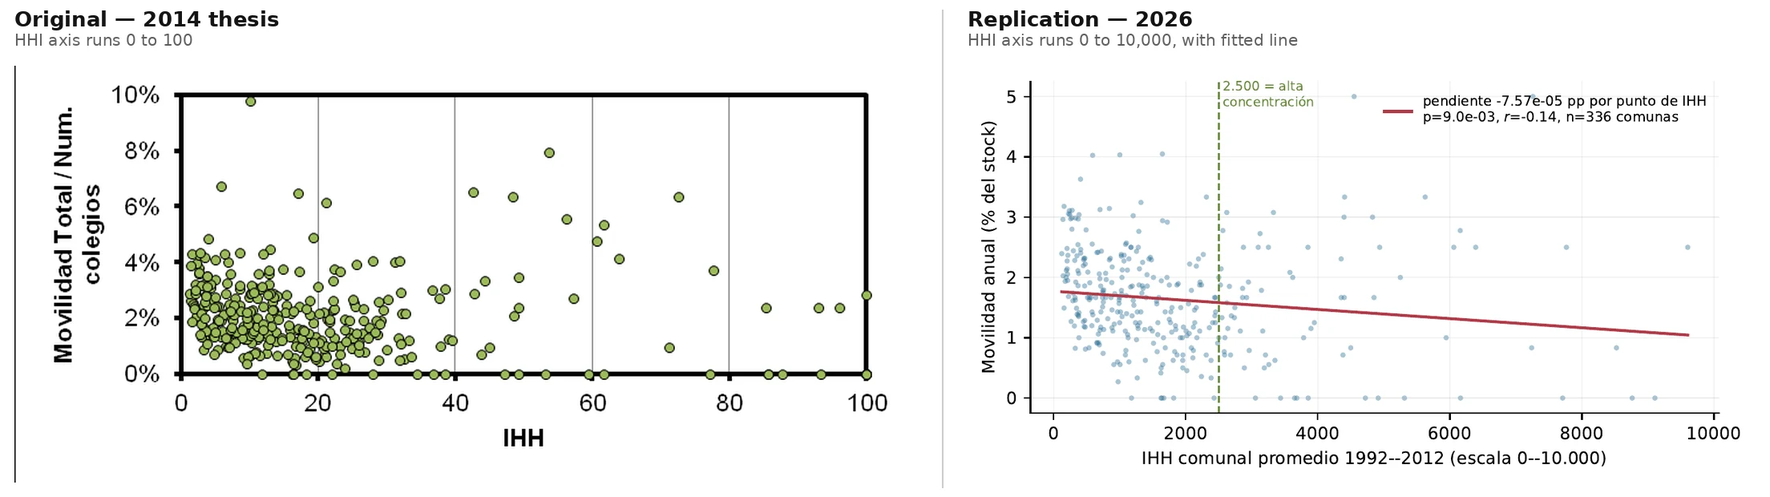
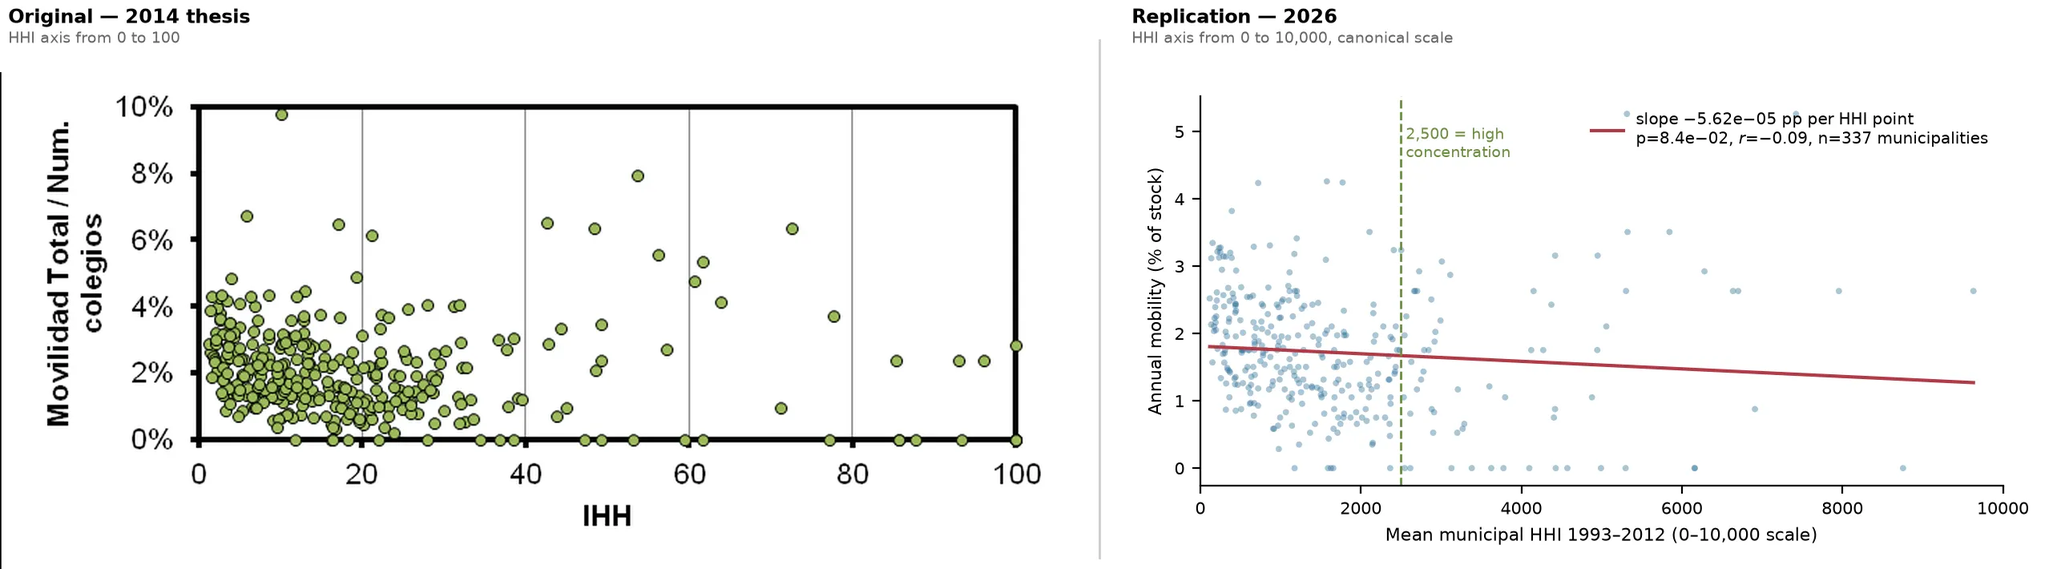
docs(post): el post afirmaba una significancia que la variable del do-file no sostiene
Dos cifras del borrador salieron de medir con la columna equivocada. La
concentración se midio con hhi_efectivo y no con hhi_n_alumnos, que es la que el
do-file rotula como el indice; con la correcta Santiago da 1.517,5 contra el
1.534 publicado (1,34 % de error medio) en vez del 157,1 que el post afirmaba, y
la pendiente descriptiva sigue siendo negativa pero pasa de p=0,009 a p=0,084:
deja de distinguirse de cero al 5 %. La figura cara a cara se regenero con la
variable correcta y su pie ya no describe el ajuste viejo.

El copago se recalcula sobre el universo que la hoja fc del autor atestigua: el
sesgo de composicion baja de 1.009,4 a 730,0 pesos, del 12,41 % al 9,88 %, y la
convergencia anual se refuerza (de 8.175,8 en 2004 a 2.481,3 en 2011, menos de
un tercio en vez de menos de la mitad).

Se agrega lo que la auditoria cerro despues de escribir el borrador: los cinco
productores de 2014 encontrados con su tabla de cobertura, el 0,003 publicado
contra el 0,001 que imprime la salida de Stata de 2014, la nota de N que viaja
de un panel distinto al de las medias, y el estado de los 26 displays.

diff --git a/_drafts/2026-08-29-replica-tesis-establecimientos-educacionales.md b/_drafts/2026-08-29-replica-tesis-establecimientos-educacionales.md
@@ -5,8 +5,8 @@ subtitle: "Volví a levantar la tesis de magíster que escribí sobre entrada y 
 date: 2026-08-29 09:30:00 -0400
 categories: [datos, educacion, politica-publica]
 tags: [replicabilidad, educacion, mercado-escolar, voucher, mineduc, analisis-de-duracion, vulnerabilidad, auditoria]
-description: "Reconstruí en 2026 mi tesis de magíster de 2014 sobre entrada y salida de establecimientos educacionales en Chile, comparé cada cuadro contra el publicado y separé los errores del documento de los errores de mi propia réplica."
-excerpt: "Cuando un cuadro reconstruido no coincide con el impreso, la pregunta útil no es cuál de los dos está mal, sino de quién es el error. Y para responderla hay que poner los dos al lado."
+description: "Reconstruí en 2026 mi tesis de magíster de 2014 sobre entrada y salida de establecimientos educacionales en Chile, comparé cada cuadro contra el publicado y, cuando aparecieron mis propios artefactos de 2014, contra ellos: 26 displays, 43 hipótesis contrastadas y ninguna divergencia sin explicar."
+excerpt: "Cuando un cuadro reconstruido no coincide con el impreso, la pregunta útil no es cuál de los dos está mal, sino de quién es el error. Y para responderla hay que poner los dos al lado —y, cuando aparece, el artefacto que los produjo."
 author: clabra
 lang: es
 ref: replica-tesis-establecimientos-educacionales
@@ -25,7 +25,7 @@ author_profile: true
 En abril de 2014 entregué una tesis de magíster sobre entrada y salida de establecimientos educacionales en Chile entre 1992 y 2012.[^tesis] Quería extender esa serie hasta 2025 y me topé con el orden natural del problema: antes de extender mi trabajo, tenía que poder reproducirlo.
 {: .text-justify}
 
-Lo que cuento acá es esa primera mitad. Reconstruí los ocho cuadros y las figuras, los puse frente a los publicados y fui decidiendo, celda por celda, de quién era cada diferencia.
+Lo que cuento acá es esa primera mitad. Reconstruí los ocho cuadros y las figuras, los puse frente a los publicados y fui decidiendo, celda por celda, de quién era cada diferencia. A mitad de camino aparecieron cinco artefactos de 2014 —la salida de Stata, hojas de mi planilla, un gráfico incrustado en el manuscrito— y la comparación pasó a tener tres columnas en vez de dos.
 {: .text-justify}
 
 **La tesis es mía y la auditoría también**, así que esto no es una réplica independiente: estoy revisando decisiones que tomé yo y que en su momento me parecieron razonables.
@@ -48,6 +48,7 @@ Si es efectivo, me sirve de credencial y de sesgo al mismo tiempo. Daniel Hojman
 | **Divergencia** | Una celda reconstruida que no coincide con la impresa. | Un error: puede estar en el documento, en mi réplica o en la cadena que las une. |
 | **Entrada / salida** | Que un establecimiento aparezca o deje de aparecer en el registro oficial. | Apertura o quiebre como decisión: no observo el motivo, solo el flujo. |
 | **IVE** | Índice de vulnerabilidad escolar: porcentaje de la matrícula clasificada como vulnerable. | Pobreza medida en el hogar ni indicador individual del alumno. |
+| **Productor** | El artefacto de 2014 que generó una cifra: una salida de Stata, una hoja de mi planilla de trabajo, el gráfico incrustado en el manuscrito. | La ejecución que lo creó: esa sigue perdida. |
 | **Claim trazable** | Afirmación amarrada a un artefacto verificable y a su hash. | Opinión mía. |
 
 **Alcance.** Trabajo con el PDF de 2014, su fuente LaTeX y mis `do-files`. Nada de lo que sigue es causal: son asociaciones condicionales dentro de un panel, sin estrategia de identificación detrás.
@@ -66,7 +67,7 @@ La parte informática es anecdótica y la despacho en dos líneas: el documento 
 
 <figure class="align-center">
   <img src="{{ '/assets/images/replica-tesis-establecimientos/cara-a-cara-movilidad.webp' | relative_url }}" alt="A la izquierda, la figura de movilidad total por dependencia administrativa publicada en 2014, con barras apiladas por año entre 1993 y 2012. A la derecha, la réplica de 2026 con los mismos flujos agregados en el período: municipal 346 entradas y 1.135 salidas, particular subvencionado 1.468 entradas y 597 salidas, particular pagado 354 y 337." loading="lazy" decoding="async">
-  <figcaption><strong>Figura 1</strong> — Movilidad total por dependencia: el original de 2014 y mi réplica, que agrega los veinte años para que el saldo se lea de una vez. Los totales de la derecha suman 2.168 entradas y 2.069 salidas, el universo restringido que sostiene los hechos estilizados.</figcaption>
+  <figcaption><strong>Figura 1</strong> — Movilidad total por dependencia: el original de 2014 y mi réplica, que agrega los veinte años para que el saldo se lea de una vez. Los totales de la derecha suman 2.168 entradas y 2.069 salidas; la planilla con la que armé esa figura en 2014 dice 2.160 y 2.065, que es exactamente lo publicado.</figcaption>
 </figure>
 
 Puestos así, los flujos dicen algo que la lámina apilada por año escondía: **la reasignación tiene dirección**. El sector municipal pierde establecimientos (346 entradas contra 1.135 salidas) y el particular subvencionado los gana (1.468 contra 597), mientras el particular pagado queda casi en tablas. No es un mercado que crezca: es uno que cambia de manos.
@@ -104,7 +105,48 @@ Cuando una celda no calza, lo que importa es de quién es el error. Sin criterio
 Mi criterio fue construir un oráculo. Reimplementé de forma controlada, desde una foto versionada del código, la ruta que produce los cuadros descriptivos, y la corrí en Stata 17 contra mi versión en Python: **44 celdas, diferencia máxima absoluta de 3,6·10⁻¹²**.
 {: .text-justify}
 
-Con una advertencia que me obliga a bajar el tono: **el `do-file` histórico no se ejecutó**; lo que corrió fue una reimplementación controlada, y así queda registrado en el artefacto.
+Con una advertencia que me obligaba a bajar el tono: **el `do-file` histórico no se ejecutó**; lo que corrió fue una reimplementación controlada.
+{: .text-justify}
+
+Esa advertencia quedó a medias un mes después. La ejecución de 2014 sigue perdida —entorno, temporales y orden real de mis comandos—, pero volví a estimar la especificación final con el motor original, Stata 17 MP sobre mi propia licencia, y apareció algo mejor que un oráculo: **el productor**.
+{: .text-justify}
+
+### Cinco artefactos míos, encontrados
+
+Rastreando el árbol de fuentes aparecieron cinco objetos que produjeron directamente lo publicado: la salida de `outreg` del modelo jerárquico, dos hojas de mi planilla de trabajo, una tercera con la brecha SIMCE, y un gráfico incrustado dentro del manuscrito con su serie adentro. La búsqueda cubrió todo lo que el árbol conserva, y eso importa tanto como el hallazgo:
+{: .text-justify}
+
+{: .table-caption}
+**Tabla 2** — Dónde se buscó el productor de cada figura
+
+| Corpus | Encontrados | Leídos |
+|---|---:|---:|
+| Gráficos `.gph` de Stata | 15 | 15 |
+| Documentos `.doc` / `.docx` | 140 | 140 |
+| Planillas `.xls` / `.xlsx` | 241 | 241 |
+| Gráficos incrustados en `.docx` | 290 | 290 |
+
+Cinco planillas binarias no las abría ninguna librería y hubo que decodificarlas registro a registro; noventa y dos documentos venían en el formato viejo de Word. Declarar la cobertura es lo que permite leer un «no aparece» como dato y no como cansancio.
+{: .small}
+
+Eso cambia la pregunta de todo el post. Hasta acá comparaba **mi reconstrucción contra lo impreso**, y cada divergencia admitía la excusa de que la equivocada era la reconstrucción. Con el productor a la vista hay una tercera columna —y en varios casos mi reconstrucción se parece más al trabajo de mi yo de 2014 que el texto que publiqué.
+{: .text-justify}
+
+En la figura de movilidad, sin ir más lejos: las participaciones de mi planilla quedan a **3,05 puntos** de la reconstrucción y a **13,41 puntos** del texto impreso. Mi réplica de 2026 está 4,4 veces más cerca de mi planilla de 2014 que mi propio documento publicado.
+{: .text-justify}
+
+### El coeficiente que no salió de mi salida
+
+Mi cuadro del modelo jerárquico publica **0,003** para el rezago del puntaje SIMCE de matemáticas. La salida de Stata de 2014 que produjo esa tabla imprime **0,001**.
+{: .text-justify}
+
+No es una diferencia de motor: los otros once coeficientes de esa misma salida coinciden con la corrida de hoy hasta el cuarto decimal, y entre Stata y `statsmodels` la peor discrepancia sobre los efectos fijos es 0,43 %. Tampoco es un problema del insumo: la imputación de SIMCE que el `do-file` declara es idéntica entre ambos motores sobre 85.807 celdas, con una diferencia relativa máxima de 5,9·10⁻⁸ que viene de que Stata guarda en `float` de 32 bits.
+{: .text-justify}
+
+Sometí el 0,003 a siete hipótesis de origen —otra especificación de SIMCE de las que la propia tesis predeclara, otra precisión de impresión, la variable imputada del `do-file`, un trasplante desde otra celda de la misma tabla, la convención de decimales del cuadro, la propia salida de 2014, el reajuste con el motor original— y **las siete quedaron refutadas**. La estimación da 0,000533 en los dos motores, que redondea a 0,001 y no a 0,003.
+{: .text-justify}
+
+Es el hallazgo que más me incomoda, porque no puedo atribuirlo a la traducción a Python: la traducción y el original coinciden, y el que se aparta es el documento.
 {: .text-justify}
 
 El modelo de duración necesitó su propio contraste, y ahí apareció lo interesante. Modelo la probabilidad de que un establecimiento salga en el año $$t$$ dado que seguía abierto, con enlace log-log complementario, la especificación estándar cuando el evento se observa por períodos y no en tiempo continuo:[^jenkins]
@@ -128,7 +170,7 @@ $$
 $$
 
 {: .table-caption}
-**Tabla 2** — Las dos celdas cuyos asteriscos no cuadran
+**Tabla 3** — Las dos celdas cuyos asteriscos no cuadran
 
 | Cuadro y término | Publicado | Reconstruido | Error estándar publicado | \|z\| máximo | Asteriscos publicados | Corresponden |
 |---|---:|---:|---:|---:|:--:|:--:|
@@ -147,6 +189,9 @@ Hay un tercer tipo que no puedo adjudicar a nadie. En mi fuente LaTeX las filas 
 Eso no prueba que haya cifras mal —la mayoría calza—, pero corta la cadena entre la estimación y lo impreso: una celda discrepante puede ser tanto una transcripción torcida como un insumo distinto.
 {: .text-justify}
 
+El cuadro de copago trae un ejemplo exacto de esa cadena rota. Su nota al pie publica **N = 5.465**, que es el total de un panel; sus medias impresas salen de otro, de **5.022**. Las dos cifras son mías y viajaron por separado hasta la misma página.
+{: .text-justify}
+
 Y un número que preferiría no escribir: de las **30 propuestas de revisión** que produjo esta auditoría, solo **12 tienen hoy un claim trazable con su hash**. Las otras 18 están rotuladas como propuesta o no verificado, y así hay que leerlas. Quien se lleve las 30 como hallazgos habrá leído este post al revés.
 {: .text-justify}
 
@@ -161,18 +206,27 @@ Contamina los tres cuadros descriptivos y la definición del evento en el modelo
 **2. Mi variable de duración mide antigüedad observada, no edad institucional.** El panel empieza en 1992 y los establecimientos que ya existían entran truncados por la izquierda, cosa que no declaré; encima le impuse al riesgo base una forma lineal. Medida año a año esa pendiente es de +0,018 puntos porcentuales anuales con p = 0,27: no la distingo de cero. No es un detalle de forma, porque el riesgo base es justo lo que el modelo usa para separar el efecto del tiempo del de las covariables.
 {: .text-justify}
 
-**3. El copago promedia ocho años de pesos nominales sin deflactar.** La brecha cruda entre entrantes y salientes que publiqué es de \$8.133,6. Calculada dentro de cada año y luego ponderada, cae a \$7.124,2: **\$1.009,4, un 12,41 %, era composición temporal** y no diferencia entre establecimientos. El hallazgo sobrevive, la magnitud no. Y hay algo mejor debajo: la brecha pasa de \$8.085,69 en el primer año de la serie a \$3.821,18 en el último. **Converge a menos de la mitad**, y mi promedio agrupado borraba justamente eso.
+**3. El copago promedia ocho años de pesos nominales sin deflactar.** Acá el productor también apareció, y con él el universo: la hoja de trabajo de 2014 imprime 17.051,23 y 9.665,54 pesos, y uno solo de los diez paneles la reproduce —a **0,00 y 0,005 pesos**, mientras el panel amplio se separa en 910,60 y 162,68—. Sobre ese universo la brecha cruda entre entrantes y salientes es \$7.385,7; calculada dentro de cada año y luego ponderada, \$6.655,7: **\$730,0, un 9,88 %, era composición temporal** y no diferencia entre establecimientos.
+{: .text-justify}
+
+El hallazgo sobrevive; la magnitud, no —y es más chica que la que yo mismo había medido antes sobre el panel amplio (\$1.009,4, 12,41 %), el que la hoja de 2014 descarta como universo—. Debajo hay algo mejor: la brecha pasa de \$8.175,8 en 2004 a \$2.481,3 en 2011. **Cae a menos de un tercio**, y mi promedio agrupado borraba justamente eso.
 {: .text-justify}
 
 <figure class="align-center">
-  <img src="{{ '/assets/images/replica-tesis-establecimientos/cara-a-cara-ihh.webp' | relative_url }}" alt="A la izquierda, la figura publicada en 2014 que relaciona el índice de Herfindahl comunal con la movilidad total, con el eje horizontal entre 0 y 100. A la derecha, la réplica de 2026 con el mismo cruce sobre el eje canónico de 0 a 10.000, con la recta ajustada de pendiente negativa." loading="lazy" decoding="async">
-  <figcaption><strong>Figura 2</strong> — Concentración comunal y movilidad. El eje del original llega a 100; el índice de Herfindahl se define entre 0 y 10.000, con 2.500 como umbral de alta concentración. La réplica agrega la recta ajustada sobre 336 comunas.</figcaption>
+  <img src="{{ '/assets/images/replica-tesis-establecimientos/cara-a-cara-ihh.webp' | relative_url }}" alt="A la izquierda, la figura publicada en 2014 que relaciona el índice de Herfindahl comunal con la movilidad total, con el eje horizontal entre 0 y 100. A la derecha, la réplica de 2026 sobre el eje canónico de 0 a 10.000, medida con la variable que el do-file rotula como el índice: recta de pendiente negativa, p = 0,084 sobre 337 comunas." loading="lazy" decoding="async">
+  <figcaption><strong>Figura 2</strong> — Concentración comunal y movilidad. El mismo índice aparece en tres escalas: el eje del original llega a 100, el texto cita niveles de 1.180 a 1.534, y la definición canónica va de 0 a 10.000 con 2.500 como umbral de alta concentración. La réplica está medida con `hhi_n_alumnos`, la variable que el propio `do-file` rotula como el índice: la pendiente sigue siendo negativa, pero sobre 337 comunas no se distingue de cero al 5 % (p = 0,084).</figcaption>
 </figure>
 
-**4. El índice de concentración está en una escala que no es la suya, y su signo no concuerda.** Puestas las figuras al lado, el eje del original llega a 100 y el del índice de Herfindahl llega a 10.000. La comuna de Santiago, que cité por nombre, mide 157,1 contra el 1.534 que publiqué.
+**4. El índice de concentración corre en una escala diez veces la suya.** El índice de Herfindahl se define entre 0 y 10.000. La variable que mi propio `do-file` rotula «Índice de Herfindahl-Hirschman» reproduce los cinco niveles que cité por nombre con **1,34 % de error medio** —Santiago da 1.517,5 contra el 1.534 publicado—, pero lo hace multiplicada por cien mil: **diez veces la escala canónica**. En la escala correcta Santiago mide 151,7. No es un decimal: leído como lo publiqué, **318 de 337 comunas** quedarían sobre el umbral de alta concentración; en la escala canónica son **66**. Cambia qué mercado se llama concentrado.
 {: .text-justify}
 
-Con la escala corregida, más concentración va descriptivamente con **menos** movilidad (pendiente negativa, p = 0,009, 336 comunas), mientras mi modelo de salidas comunales reportaba un coeficiente positivo. Y ese modelo acumula tres problemas de identificación: regresores contemporáneos que mi propio texto declara determinados conjuntamente, dependiente rezagada bajo efectos aleatorios[^nickell] e inferencia sobre 15 conglomerados.[^cameron] Con tan pocos grupos, el error estándar deja de ser confiable antes que el coeficiente.
+Acá me corrijo dos veces a mí mismo, y la segunda duele más. Primero medí la concentración con **otra columna** del panel, no con la que el `do-file` rotula como el índice; el error se delata solo, porque su razón contra lo publicado era casi constante —10,3, con dispersión 0,03—, señal de estar comparando contra algo proporcional pero distinto.
+{: .text-justify}
+
+Segundo: con esa columna el contraste descriptivo daba pendiente negativa y significativa (p = 0,009, 336 comunas). **Rehecho con la variable del `do-file`, el signo sigue siendo negativo pero la pendiente ya no se distingue de cero al 5 % (p = 0,084, 337 comunas).** Lo que queda en pie es que mi modelo de salidas comunales reportaba un coeficiente positivo y la nube descriptiva no lo acompaña; lo que se cae es la fuerza con que yo lo afirmaba.
+{: .text-justify}
+
+Y ese modelo acumula tres problemas de identificación: regresores contemporáneos que mi propio texto declara determinados conjuntamente, dependiente rezagada bajo efectos aleatorios[^nickell] e inferencia sobre 15 conglomerados.[^cameron] Con tan pocos grupos, el error estándar deja de ser confiable antes que el coeficiente.
 {: .text-justify}
 
 <figure class="align-center">
@@ -189,15 +243,37 @@ Con la salvedad del hallazgo 1: el eje mide años respecto del último año marc
 Queda una deuda que no es un error sino una ausencia: el marco schumpeteriano organiza mi título, mi resumen y mi conclusión, pero nunca lo contrasté. La descomposición de reasignación que separa la mejora dentro de los incumbentes de la que viene de entradas y salidas —el estándar de la literatura que yo mismo citaba— no está en el documento.[^griliches]
 {: .text-justify}
 
+## Dónde quedó la auditoría
+
+Veintiséis objetos entre cuadros y paneles de figura. Diez reproducen lo publicado; diez divergen con un mecanismo medido —una etiqueta, un universo, una escala, una convención de redondeo—; **ninguno queda divergiendo sin explicación**; seis no admiten prueba numérica, porque son afirmaciones estructurales o les falta un dato que el panel no conserva.
+{: .text-justify}
+
+{: .table-caption}
+**Tabla 4** — Estado de los veintiséis displays
+
+| Veredicto | Displays |
+|---|---:|
+| Reproducen lo publicado | 10 |
+| Divergen con mecanismo medido | 10 |
+| Divergen sin explicar | 0 |
+| Sin prueba numérica posible | 6 |
+| **Total** | **26** |
+
+Detrás de esos veredictos hay **43 hipótesis sometidas a contraste**, de las que 34 quedaron refutadas y 7 sobrevivieron. Registro las refutadas junto a las que sobrevivieron a propósito: una auditoría que solo publica lo que confirmó no es una auditoría, es una selección.
+{: .text-justify}
+
 ## Cierre: la segunda mitad va hasta 2025
 
 Un segundo post traerá la recreación ampliada hasta 2025. Las fuentes ya están adquiridas —catorce colecciones oficiales del MINEDUC, incluido el Directorio Oficial 1992-2025—, pero no adelanto cifras: extender la ventana mete cambios de régimen en el medio.
 {: .text-justify}
 
-Lo que me llevo es menos técnico de lo que esperaba. Los dos errores confirmados son asteriscos y aritmética elemental; los hallazgos que mueven una conclusión salieron de mirar qué medían mis variables.
+Lo que me llevo es menos técnico de lo que esperaba. Los errores confirmados son asteriscos, escalas y aritmética elemental; los hallazgos que mueven una conclusión salieron de mirar qué medían mis variables.
 {: .text-justify}
 
-Y ninguno lo habría visto discutiendo cifras en prosa: los vi cuando puse la figura de 2014 al lado de la de 2026 y los ejes no coincidían.
+Y lo que más me sorprendió no fue encontrar errores, sino de qué lado aparecieron. Empecé asumiendo que la reconstrucción iba a ser el eslabón débil. Cuando aparecieron mis propios artefactos de 2014 —la salida de Stata, la planilla, el gráfico incrustado— resultó que la reconstrucción se parecía más a ellos que el documento que firmé.
+{: .text-justify}
+
+Ninguno de estos lo habría visto discutiendo cifras en prosa: los vi cuando puse la figura de 2014 al lado de la de 2026 y los ejes no coincidían.
 {: .text-justify}
 
 ---

diff --git a/_drafts/2026-08-29-replica-tesis-establecimientos-educacionales-en.md b/_drafts/2026-08-29-replica-tesis-establecimientos-educacionales-en.md
@@ -5,8 +5,8 @@ subtitle: "I rebuilt the master's thesis I wrote on school entry and exit in Chi
 date: 2026-08-29 09:30:00 -0400
 categories: [datos, educacion, politica-publica]
 tags: [replication, education, school-markets, voucher, mineduc, duration-analysis, vulnerability, audit]
-description: "In 2026 I rebuilt my 2014 master's thesis on the entry and exit of schools in Chile, compared every table against the published one, and separated errors in the document from errors in my own replication."
-excerpt: "When a rebuilt table does not match the printed one, the useful question is not which of the two is wrong, but whose error it is. Answering it means putting both side by side."
+description: "In 2026 I rebuilt my 2014 master's thesis on the entry and exit of schools in Chile, compared every table against the published one and, once my own 2014 artefacts turned up, against those too: 26 displays, 43 hypotheses tested and no divergence left unexplained."
+excerpt: "When a rebuilt table does not match the printed one, the useful question is not which of the two is wrong, but whose error it is. Answering it means putting both side by side —and, when it turns up, the artefact that produced them."
 author: clabra
 lang: en
 ref: replica-tesis-establecimientos-educacionales
@@ -25,7 +25,7 @@ author_profile: true
 In April 2014 I submitted a master's thesis on the entry and exit of schools in Chile between 1992 and 2012.[^tesis] I wanted to extend that series to 2025 and ran into the natural order of the problem: before extending my own work, I had to be able to reproduce it.
 {: .text-justify}
 
-What follows is that first half. I rebuilt the eight tables and the figures, put them next to the published ones, and decided, cell by cell, whose difference each one was.
+What follows is that first half. I rebuilt the eight tables and the figures, put them next to the published ones, and decided, cell by cell, whose difference each one was. Halfway through, five 2014 artefacts turned up —the Stata output, sheets from my working spreadsheet, a chart embedded in the manuscript— and the comparison went from two columns to three.
 {: .text-justify}
 
 **The thesis is mine and so is the audit**, so this is not an independent replication: I am reviewing decisions I made myself and that seemed reasonable at the time.
@@ -48,6 +48,7 @@ If it is accurate, it serves me as credential and as bias at once. Daniel Hojman
 | **Discrepancy** | A rebuilt cell that does not match the printed one. | An error: it may sit in the document, in my replication, or in the chain joining them. |
 | **Entry / exit** | A school appearing in, or dropping out of, the official register. | Opening or failure as a decision: I observe the flow, not the motive. |
 | **IVE** | Chile's school vulnerability index: share of enrolment classified as vulnerable. | Household poverty, or an individual measure of any pupil. |
+| **Producer** | The 2014 artefact that generated a figure: a Stata output, a sheet of my working spreadsheet, the chart embedded in the manuscript. | The run that created it: that is still lost. |
 | **Traceable claim** | A statement tied to a verifiable artefact and its hash. | An opinion of mine. |
 
 **Scope.** I work from the 2014 PDF, its LaTeX source and my `do-files`. Nothing below is causal: these are conditional associations within a panel, with no identification strategy behind them.
@@ -66,7 +67,7 @@ The computing side is anecdotal and I dispatch it in two lines: the document no 
 
 <figure class="align-center">
   <img src="{{ '/assets/images/replica-tesis-establecimientos/cara-a-cara-movilidad-en.webp' | relative_url }}" alt="On the left, the total mobility by administrative dependency figure published in 2014, with bars stacked by year from 1993 to 2012. On the right, the 2026 replication with the same flows pooled over the period: municipal 346 entries and 1,135 exits, publicly funded private 1,468 entries and 597 exits, fee-paying private 354 and 337." loading="lazy" decoding="async">
-  <figcaption><strong>Figure 1</strong> — Total mobility by dependency: the 2014 original and my replication, which pools the twenty years so the balance reads in one glance. The totals on the right add up to 2,168 entries and 2,069 exits, the restricted universe behind the stylised facts. Panel labels are in Spanish, as in the source.</figcaption>
+  <figcaption><strong>Figure 1</strong> — Total mobility by dependency: the 2014 original and my replication, which pools the twenty years so the balance reads in one glance. The totals on the right add up to 2,168 entries and 2,069 exits; the spreadsheet I built that figure with in 2014 says 2,160 and 2,065, which is exactly what got published. Panel labels are in Spanish, as in the source.</figcaption>
 </figure>
 
 Laid out that way, the flows say something the year-by-year stack was hiding: **the reallocation has a direction**. The municipal sector loses schools (346 entries against 1,135 exits) and the publicly funded private sector gains them (1,468 against 597), while fee-paying private roughly breaks even. This is not a market that grows: it is one that changes hands.
@@ -104,7 +105,48 @@ When a cell fails to match, what matters is whose error it is. Without an explic
 My criterion was to build an oracle. I reimplemented, under control and from a versioned snapshot of the code, the route that produces the descriptive tables, and ran it on Stata 17 against my Python version: **44 cells, maximum absolute difference of 3.6·10⁻¹²**.
 {: .text-justify}
 
-With a caveat that forces me to lower my voice: **the historical `do-file` was not executed**; what ran was a controlled reimplementation, and the artefact records it that way.
+With a caveat that forced me to lower my voice: **the historical `do-file` was not executed**; what ran was a controlled reimplementation.
+{: .text-justify}
+
+A month later that caveat was half lifted. The 2014 run is still lost —environment, temporaries and the actual order of my commands— but I did re-estimate the final specification on the original engine, Stata 17 MP under my own licence, and something better than an oracle turned up: **the producer**.
+{: .text-justify}
+
+### Five artefacts of mine, found
+
+Combing the source tree surfaced five objects that produced the published numbers directly: the `outreg` output of the hierarchical model, two sheets of my working spreadsheet, a third with the SIMCE gap, and a chart embedded inside the manuscript with its series still in it. The search covered everything the tree keeps, and that matters as much as the find:
+{: .text-justify}
+
+{: .table-caption}
+**Table 2** — Where the producer of each figure was searched for
+
+| Corpus | Found | Read |
+|---|---:|---:|
+| Stata `.gph` graphs | 15 | 15 |
+| `.doc` / `.docx` documents | 140 | 140 |
+| `.xls` / `.xlsx` spreadsheets | 241 | 241 |
+| Charts embedded in `.docx` | 290 | 290 |
+
+Five binary spreadsheets opened in no library and had to be decoded record by record; ninety-two documents came in the old Word format. Declaring coverage is what lets a «not found» read as data rather than as fatigue.
+{: .small}
+
+That changes the question running through this post. Until here I was comparing **my reconstruction against the print**, and every discrepancy admitted the excuse that the reconstruction was the broken one. With the producer in view there is a third column —and in several cases my reconstruction looks more like my 2014 self's work than the text I published.
+{: .text-justify}
+
+Take the mobility figure: the shares in my spreadsheet sit **3.05 points** from the reconstruction and **13.41 points** from the printed text. My 2026 replication is 4.4 times closer to my own 2014 spreadsheet than my published document is.
+{: .text-justify}
+
+### The coefficient that did not come from my own output
+
+My hierarchical model table publishes **0.003** for the lagged SIMCE mathematics score. The 2014 Stata output that produced that table prints **0.001**.
+{: .text-justify}
+
+It is not an engine difference: the other eleven coefficients of that same output match today's run to the fourth decimal, and between Stata and `statsmodels` the worst discrepancy across the fixed effects is 0.43 %. Nor is it an input problem: the SIMCE imputation the `do-file` declares is identical across both engines over 85,807 cells, with a maximum relative difference of 5.9·10⁻⁸ that comes from Stata storing in 32-bit `float`.
+{: .text-justify}
+
+I put the 0.003 through seven hypotheses of origin —another SIMCE specification among those the thesis itself pre-declares, another print precision, the imputed variable of the `do-file`, a transplant from another cell of the same table, the table's own decimal convention, the 2014 output itself, refitting on the original engine— and **all seven were refuted**. The estimate is 0.000533 on both engines, which rounds to 0.001 and not to 0.003.
+{: .text-justify}
+
+This is the finding that unsettles me most, because I cannot pin it on the translation to Python: the translation and the original agree, and the one that departs is the document.
 {: .text-justify}
 
 The duration model needed its own check, and that is where it got interesting. I model the probability that a school exits in year $$t$$ given that it was still open, with a complementary log-log link, the standard specification when the event is observed by periods rather than in continuous time:[^jenkins]
@@ -128,7 +170,7 @@ $$
 $$
 
 {: .table-caption}
-**Table 2** — The two cells whose asterisks do not add up
+**Table 3** — The two cells whose asterisks do not add up
 
 | Table and term | Published | Rebuilt | Published standard error | max \|z\| | Asterisks printed | Warranted |
 |---|---:|---:|---:|---:|:--:|:--:|
@@ -147,6 +189,9 @@ There is a third kind I cannot assign to anyone. In my LaTeX source the «Observ
 That does not prove any figure is wrong —most match— but it cuts the chain between estimate and print: a discrepant cell may be a crooked transcription or a different input.
 {: .text-justify}
 
+The co-payment table carries an exact example of that broken chain. Its footnote publishes **N = 5,465**, which is the total of one panel; the means printed above it come from another, of **5,022**. Both numbers are mine and they travelled separately onto the same page.
+{: .text-justify}
+
 And a number I would rather not write: of the **30 revision proposals** this audit produced, only **12 today carry a traceable claim with its hash**. The other 18 are labelled proposal or unverified, and that is how they must be read. Anyone taking all 30 as findings has read this post backwards.
 {: .text-justify}
 
@@ -161,18 +206,27 @@ It contaminates the three descriptive tables and the definition of the event in 
 **2. My duration variable measures observed tenure, not institutional age.** The panel starts in 1992 and schools that already existed enter left-truncated, which I did not declare; on top of that I imposed a linear shape on the baseline hazard. Measured year by year that slope is +0.018 percentage points a year with p = 0.27: I cannot tell it from zero. It is not a matter of form, because the baseline hazard is precisely what the model uses to separate the effect of time from that of the covariates.
 {: .text-justify}
 
-**3. The co-payment averages eight years of nominal pesos without deflating.** The crude entrant-exiter gap I published is \$8,133.6. Computed within each year and then weighted, it falls to \$7,124.2: **\$1,009.4, some 12.41 %, was temporal composition** and not a difference between schools. The finding survives, the magnitude does not. And there is something better underneath: the gap moves from \$8,085.69 in the first year of the series to \$3,821.18 in the last. **It converges to less than half**, and my pooled average erased exactly that.
+**3. The co-payment averages eight years of nominal pesos without deflating.** Here the producer turned up too, and with it the universe: the 2014 working sheet prints 17,051.23 and 9,665.54 pesos, and exactly one of the ten panels reproduces it —to **0.00 and 0.005 pesos**, while the wide panel departs by 910.60 and 162.68. On that universe the crude entrant-exiter gap is \$7,385.7; computed within each year and then weighted, \$6,655.7: **\$730.0, some 9.88 %, was temporal composition** and not a difference between schools.
+{: .text-justify}
+
+The finding survives; the magnitude does not —and it is smaller than the one I had measured myself on the wide panel (\$1,009.4, 12.41 %), the panel the 2014 sheet rules out as the universe. Underneath there is something better: the gap moves from \$8,175.8 in 2004 to \$2,481.3 in 2011. **It falls to less than a third**, and my pooled average erased exactly that.
 {: .text-justify}
 
 <figure class="align-center">
-  <img src="{{ '/assets/images/replica-tesis-establecimientos/cara-a-cara-ihh-en.webp' | relative_url }}" alt="On the left, the figure published in 2014 relating the municipal Herfindahl index to total mobility, with the horizontal axis running from 0 to 100. On the right, the 2026 replication of the same crosswalk on the canonical 0 to 10,000 axis, with a fitted line of negative slope." loading="lazy" decoding="async">
-  <figcaption><strong>Figure 2</strong> — Municipal concentration and mobility. The original's axis stops at 100; the Herfindahl index is defined between 0 and 10,000, with 2,500 as the high-concentration threshold. The replication adds the line fitted over 336 municipalities.</figcaption>
+  <img src="{{ '/assets/images/replica-tesis-establecimientos/cara-a-cara-ihh-en.webp' | relative_url }}" alt="On the left, the figure published in 2014 relating the municipal Herfindahl index to total mobility, with the horizontal axis running from 0 to 100. On the right, the 2026 replication on the canonical 0 to 10,000 axis, measured with the variable the do-file labels as the index: a negative slope, p = 0.084 over 337 municipalities." loading="lazy" decoding="async">
+  <figcaption><strong>Figure 2</strong> — Municipal concentration and mobility. The same index appears on three scales: the original's axis stops at 100, the text cites levels from 1,180 to 1,534, and the canonical definition runs from 0 to 10,000 with 2,500 as the high-concentration threshold. The replication is measured with `hhi_n_alumnos`, the variable the `do-file` itself labels as the index: the slope stays negative, but over 337 municipalities it is not distinguishable from zero at 5 % (p = 0.084).</figcaption>
 </figure>
 
-**4. The concentration index sits on a scale that is not its own, and its sign does not agree.** Put side by side, the original's axis stops at 100 and the Herfindahl index runs to 10,000. The municipality of Santiago, which I named explicitly, measures 157.1 against the 1,534 I published.
+**4. The concentration index runs on a scale ten times its own.** The Herfindahl index is defined between 0 and 10,000. The variable my own `do-file` labels «Herfindahl-Hirschman Index» reproduces the five levels I named explicitly with **1.34 % mean error** —Santiago gives 1,517.5 against the 1,534 published— but it does so multiplied by one hundred thousand: **ten times the canonical scale**. On the correct scale Santiago measures 151.7. This is not a decimal: read as I published it, **318 of 337 municipalities** would sit above the high-concentration threshold; on the canonical scale it is **66**. It changes which market gets called concentrated.
 {: .text-justify}
 
-With the scale corrected, more concentration goes descriptively with **less** mobility (negative slope, p = 0.009, 336 municipalities), while my municipal exits model reported a positive coefficient. And that model stacks three identification problems: contemporaneous regressors my own text declares jointly determined, a lagged dependent variable under random effects,[^nickell] and inference over 15 clusters.[^cameron] With so few groups, the standard error stops being trustworthy before the coefficient does.
+Here I correct myself twice, and the second one stings. First, I measured concentration with **another column** of the panel, not the one the `do-file` labels as the index; the error gives itself away, because its ratio against the published values was almost constant —10.3, dispersion 0.03— the signature of comparing against something proportional but different.
+{: .text-justify}
+
+Second: with that column the descriptive contrast gave a negative and significant slope (p = 0.009, 336 municipalities). **Redone with the `do-file`'s own variable, the sign stays negative but the slope is no longer distinguishable from zero at 5 % (p = 0.084, 337 municipalities).** What still stands is that my municipal exits model reported a positive coefficient and the descriptive cloud does not back it; what falls is the force with which I asserted it.
+{: .text-justify}
+
+And that model stacks three identification problems: contemporaneous regressors my own text declares jointly determined, a lagged dependent variable under random effects,[^nickell] and inference over 15 clusters.[^cameron] With so few groups, the standard error stops being trustworthy before the coefficient does.
 {: .text-justify}
 
 <figure class="align-center">
@@ -189,15 +243,37 @@ With the caveat from finding 1: the axis measures years relative to the last fla
 One debt left is not an error but an absence: the Schumpeterian frame organises my title, my abstract and my conclusion, but I never tested it. The reallocation decomposition separating improvement within incumbents from that coming from entry and exit —the standard in the very literature I was citing— is not in the document.[^griliches]
 {: .text-justify}
 
+## Where the audit landed
+
+Twenty-six objects between tables and figure panels. Ten reproduce what was published; ten diverge with a measured mechanism —a label, a universe, a scale, a rounding convention—; **none is left diverging without an explanation**; six admit no numerical test, because they are structural statements or a datum the panel does not keep.
+{: .text-justify}
+
+{: .table-caption}
+**Table 4** — State of the twenty-six displays
+
+| Verdict | Displays |
+|---|---:|
+| Reproduce what was published | 10 |
+| Diverge with a measured mechanism | 10 |
+| Diverge without explanation | 0 |
+| No numerical test possible | 6 |
+| **Total** | **26** |
+
+Behind those verdicts sit **43 hypotheses put to the test**, of which 34 were refuted and 7 survived. I record the refuted ones alongside the survivors on purpose: an audit that only publishes what it confirmed is not an audit, it is a selection.
+{: .text-justify}
+
 ## Closing: the second half runs to 2025
 
 A second post will bring the recreation extended to 2025. The sources are already acquired —fourteen official MINEDUC collections, including the Official Directory 1992-2025— but I am not previewing figures: extending the window puts regime changes in the middle.
 {: .text-justify}
 
-What I take away is less technical than I expected. The two confirmed errors are asterisks and elementary arithmetic; the findings that move a conclusion came from looking at what my variables actually measured.
+What I take away is less technical than I expected. The confirmed errors are asterisks, scales and elementary arithmetic; the findings that move a conclusion came from looking at what my variables actually measured.
 {: .text-justify}
 
-And I would not have seen any of them arguing over numbers in prose: I saw them when I put the 2014 figure next to the 2026 one and the axes did not line up.
+And what surprised me most was not finding errors, but which side they turned up on. I started out assuming the reconstruction would be the weak link. Once my own 2014 artefacts appeared —the Stata output, the spreadsheet, the embedded chart— the reconstruction turned out to look more like them than the document I signed.
+{: .text-justify}
+
+I would not have seen any of this arguing over numbers in prose: I saw it when I put the 2014 figure next to the 2026 one and the axes did not line up.
 {: .text-justify}
 
 ---
